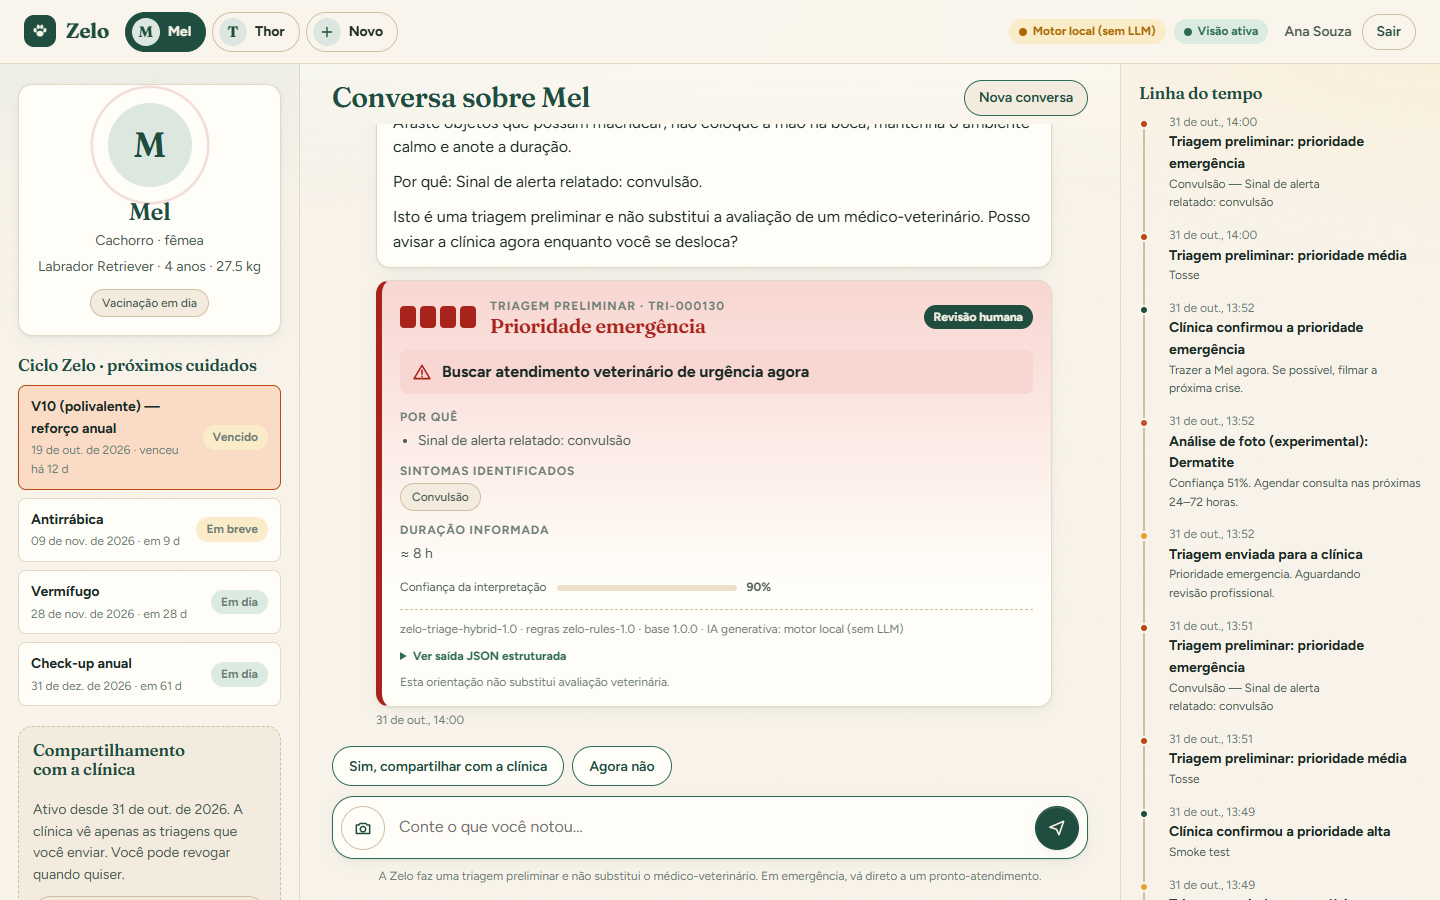
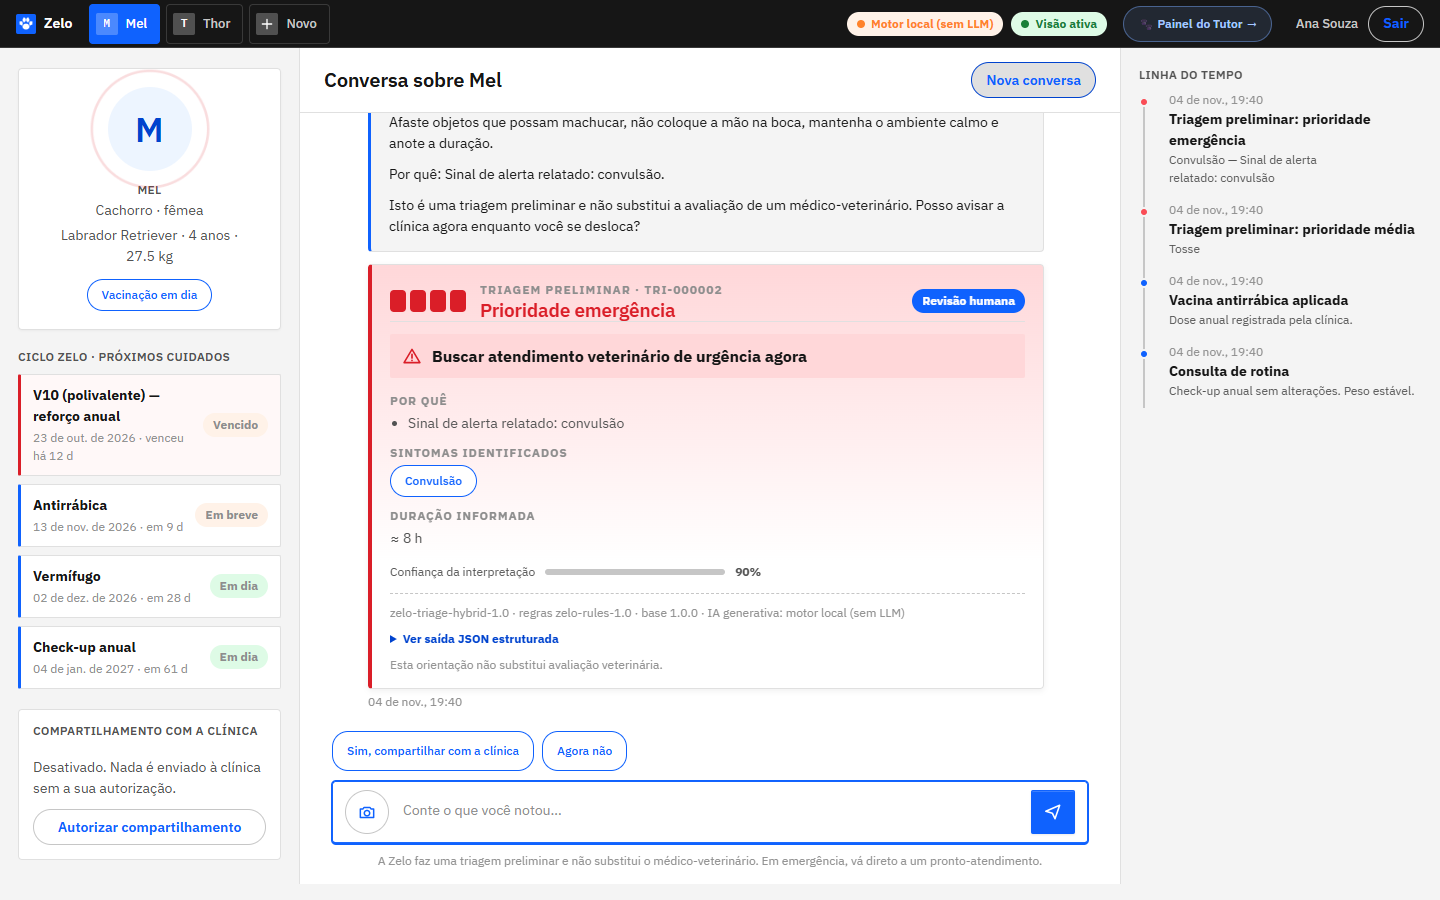
docs(evidencias): atualiza as capturas de tela com o visual atual e o painel do tutor
- 12 evidencias regeradas com scripts/capture_evidence.py no backend local
  (servico de visao ativo, banco limpo com dados de demonstracao)
- 4 novas capturas do Painel do Tutor: visao geral, historico de atendimento,
  gestao do plano de cuidados e edicao dos dados do pet
- Fila da clinica agora mostra triagens de dois tutores ordenadas por prioridade
- Correcoes visuais encontradas nas capturas: dialogo de edicao centralizado,
  menu lateral do painel fixo na rolagem, contraste do link do painel no chat
  e link compacto no celular
- docs/sprint4-ia.md e README atualizados (16 telas)

Changed region(s): [[0.0, 0.0, 1.0, 1.0], [0.8125, 0.5911, 0.9688, 0.8711], [0.8125, 0.9022, 0.9688, 0.9956]]

diff --git a/backend/src/main/resources/static/css/dashboard.css b/backend/src/main/resources/static/css/dashboard.css
@@ -807,6 +807,7 @@ button:focus-visible, a:focus-visible, input:focus-visible, select:focus-visible
 
 /* Diálogos (modal Carbon) */
 .cds-modal {
+  margin: auto; /* o reset global zera a margem automática que centraliza o <dialog> */
   border: none; padding: 0; width: min(560px, calc(100vw - 32px));
   border-top: 3px solid var(--blue-60); box-shadow: 0 8px 32px rgba(0, 0, 0, 0.3);
 }
@@ -835,6 +836,11 @@ button:focus-visible, a:focus-visible, input:focus-visible, select:focus-visible
   border-left: 3px solid var(--green-40); box-shadow: 0 4px 16px rgba(0, 0, 0, 0.25);
 }
 .toast--error { border-left-color: var(--red-50); }
+
+/* menu lateral acompanha a rolagem (no desktop) */
+@media (min-width: 961px) {
+  .left-nav { position: sticky; top: var(--shell-height); align-self: start; max-height: calc(100vh - var(--shell-height)); overflow-y: auto; }
+}
 
 /* itens de grid podem encolher abaixo da largura das tabelas (que rolam dentro de .table-scroll) */
 .page-layout > *, .pet-profile-section > *, .two-col-grid > * { min-width: 0; }

diff --git a/backend/src/main/resources/static/chat.html b/backend/src/main/resources/static/chat.html
@@ -22,7 +22,7 @@
     <nav class="pet-switch" id="pet-switch" aria-label="Seus pets"></nav>
     <span class="topbar__spacer"></span>
     <div class="topbar__status" id="status" aria-label="Estado dos componentes de IA"></div>
-    <a href="/dashboard" class="btn btn--ghost btn--small topbar__panel-link" title="Ver Painel do Tutor com identidade IBM Carbon">🐾 Painel do Tutor &rarr;</a>
+    <a href="/dashboard" class="btn btn--ghost btn--small topbar__panel-link" title="Ver Painel do Tutor com identidade IBM Carbon">🐾 Painel<span class="topbar__panel-extra"> do Tutor</span> &rarr;</a>
     <div class="user">
       <span id="user-name"></span>
       <button class="btn btn--ghost btn--small" id="logout" type="button">Sair</button>

diff --git a/backend/src/main/resources/static/css/app.css b/backend/src/main/resources/static/css/app.css
@@ -985,7 +985,13 @@
   font-size: 12px;
   font-weight: 600;
   text-decoration: none;
-  background: rgba(15, 98, 254, 0.1);
-  color: #0043ce;
-  border: 1px solid rgba(15, 98, 254, 0.3);
+  background: rgba(120, 169, 255, 0.12);
+  color: #a6c8ff;
+  border: 1px solid rgba(120, 169, 255, 0.45);
 }
+.topbar__panel-link { white-space: nowrap; flex-shrink: 0; }
+@media (max-width: 640px) {
+  .topbar__panel-extra { display: none; }
+  .topbar__panel-link { margin-right: 4px; padding-inline: 8px; }
+}
+.topbar__panel-link:hover { background: rgba(120, 169, 255, 0.24); color: #ffffff; }

diff --git a/scripts/capture_evidence.py b/scripts/capture_evidence.py
@@ -110,7 +110,18 @@ def tutor_flow(browser, base: str, password: str) -> None:
     page.wait_for_timeout(500)
     say(page, "Ele tenta fazer xixi e não sai nada, está miando muito")
     shot(page, "08-triagem-gato-obstrucao-urinaria.png")
+    quick(page, "Sim, compartilhar com a clínica")  # mais uma emergência na fila da clínica
     context.close()
+
+    # outro tutor (Bruno) compartilha uma triagem de prioridade alta: a fila mostra a ordenação por prioridade
+    other = browser.new_context(viewport=DESKTOP, locale="pt-BR")
+    bruno = other.new_page()
+    login(bruno, base, "bruno@zelo.demo", password, "chat.html")
+    bruno.click("#new-chat")
+    bruno.wait_for_timeout(500)
+    say(bruno, "Ele está muito abatido e vomitou duas vezes desde ontem")
+    quick(bruno, "Sim, compartilhar com a clínica")
+    other.close()
 
     # celular (a tela é pensada para o tutor no caminho da clínica)
     mobile = browser.new_context(viewport=PHONE, device_scale_factor=2, is_mobile=True, has_touch=True, locale="pt-BR")
@@ -127,7 +138,7 @@ def clinic_flow(browser, base: str, password: str) -> None:
     login(page, base, "vet@zelo.demo", password, "clinic.html")
     page.wait_for_selector(".q-item")
     shot(page, "09-clinica-fila-por-prioridade.png")
-    page.locator(".q-item").first.click()
+    page.locator(".q-item", has_text="Convulsão").first.click()
     page.wait_for_selector("#review-note")
     page.fill("#review-note", "Trazer a Mel agora. Se possível, filmar a próxima crise.")
     shot(page, "10-clinica-detalhe-e-revisao.png")
@@ -135,6 +146,37 @@ def clinic_flow(browser, base: str, password: str) -> None:
     page.wait_for_selector(".review-entry")
     page.wait_for_timeout(400)
     shot(page, "10b-clinica-revisao-registrada.png")
+    context.close()
+
+
+def dashboard_flow(browser, base: str, password: str) -> None:
+    """Painel do Tutor (IBM Carbon), depois da revisão da clínica: o retorno aparece no aviso e no histórico."""
+    context = browser.new_context(viewport=DESKTOP, locale="pt-BR")
+    page = context.new_page()
+    login(page, base, "ana@zelo.demo", password, "chat.html")
+    page.goto(f"{base}/dashboard")
+    page.wait_for_selector("#cta-triage")
+    page.locator('[data-pet-id="PET-0001"]').click()
+    page.wait_for_load_state("networkidle")
+    page.wait_for_timeout(400)
+    shot(page, "12-painel-do-tutor.png")
+
+    page.click('[data-section="historico"]')
+    page.wait_for_timeout(900)
+    shot(page, "13-painel-historico-de-atendimento.png")
+
+    page.click("#manage-care")
+    page.wait_for_selector("#add-care")
+    page.click('[data-section="cuidados"]')
+    page.wait_for_timeout(900)
+    shot(page, "14-painel-gerenciar-plano-de-cuidados.png")
+
+    page.click('[data-section="perfil"]')
+    page.wait_for_timeout(600)
+    page.click("#edit-pet")
+    page.wait_for_selector("#pet-dialog[open]")
+    page.wait_for_timeout(300)
+    shot(page, "15-painel-editar-dados-do-pet.png")
     context.close()
 
 
@@ -147,6 +189,7 @@ def main() -> None:
         browser = playwright.chromium.launch(channel="chrome", headless=True)
         tutor_flow(browser, base, password)
         clinic_flow(browser, base, password)
+        dashboard_flow(browser, base, password)
         browser.close()
     print(f"Evidências em {OUT}")
 

diff --git a/docs/sprint4-ia.md b/docs/sprint4-ia.md
@@ -9,7 +9,7 @@ Como este repositório atende a cada item pedido na Sprint 4, o que foi **de fat
 | **Implementar a solução de IA definida na Sprint 3** | Sim (chatbot híbrido + visão). IoB: não | seção 2 |
 | **Integrar a IA ao app** (HTML + Java) | Sim: front-end estático servido pelo Spring Boot, API REST, banco, autenticação, painel da clínica | [`arquitetura.md`](arquitetura.md), [`api.md`](api.md) |
 | **Testar e validar** | Sim: 195 testes Java, 33 Python, ponta a ponta, conjuntos de avaliação com protocolo honesto | [`validacao-e-testes.md`](validacao-e-testes.md) |
-| **Evidências** (telas, fluxos, relatórios) | Sim | `docs/evidencias/` (12 telas) e `docs/relatorios/` |
+| **Evidências** (telas, fluxos, relatórios) | Sim | `docs/evidencias/` (16 telas) e `docs/relatorios/` |
 | **Vídeo pitch de ~5 min** | Roteiro pronto; **a gravação e o upload são da equipe** | [`roteiro-video-pitch.md`](roteiro-video-pitch.md) |
 | **.zip com link do YouTube (não listado) e do GitHub, com README** | Estrutura e script prontos; **os links são inseridos pela equipe** | [`checklist-entrega.md`](checklist-entrega.md), `scripts/build-zip.ps1` |
 
@@ -73,8 +73,12 @@ Regras de contexto (filhote, idoso, braquicefálico, histórico cardíaco/renal)
 | `06-recusa-de-medicamento.png` | "posso dar dipirona?" → recusa e redirecionamento |
 | `07-analise-de-foto-experimental.png` | foto da pele → classificação experimental, só o hash é guardado |
 | `08-triagem-gato-obstrucao-urinaria.png` | regra específica de gato (não consegue urinar) → emergência |
-| `09-clinica-fila-por-prioridade.png` | fila da clínica, da prioridade maior para a menor |
+| `09-clinica-fila-por-prioridade.png` | fila da clínica com triagens de dois tutores, da prioridade maior para a menor (emergência → alta) |
 | `10-clinica-detalhe-e-revisao.png` · `10b-…` | relato, triagem da IA, histórico autorizado e revisão profissional registrada |
 | `11-celular-chat.png` | versão para celular |
+| `12-painel-do-tutor.png` | Painel do Tutor (IBM Carbon) com dados reais: aviso de triagem aguardando revisão, abas por pet, perfil |
+| `13-painel-historico-de-atendimento.png` | histórico com prioridade e status (revisada pela clínica, enviada, registrada) e exportação em PDF |
+| `14-painel-gerenciar-plano-de-cuidados.png` | plano de cuidados em modo de gestão: adicionar, marcar como feito, remover; resumo de saúde |
+| `15-painel-editar-dados-do-pet.png` | edição dos dados do pet (espécie, raça, nascimento, peso, histórico de saúde) |
 
 Gerar de novo: `scripts/capture_evidence.py` (ver o cabeçalho do script).

diff --git a/README.md b/README.md
@@ -151,7 +151,7 @@ Limitações, riscos e o que **não** foi feito (IoT/IoB, datasets D1/D4/D5, val
 
 ### Evidências (telas)
 
-As 12 capturas estão em [`docs/evidencias/`](docs/evidencias/) (lista comentada em [`docs/sprint4-ia.md`](docs/sprint4-ia.md)). Três delas:
+As 16 capturas estão em [`docs/evidencias/`](docs/evidencias/) (lista comentada em [`docs/sprint4-ia.md`](docs/sprint4-ia.md)). Três delas:
 
 | Triagem média, com motivos e confiança | Emergência: sem perguntas, pede consentimento | Painel da clínica: fila por prioridade |
 |---|---|---|
